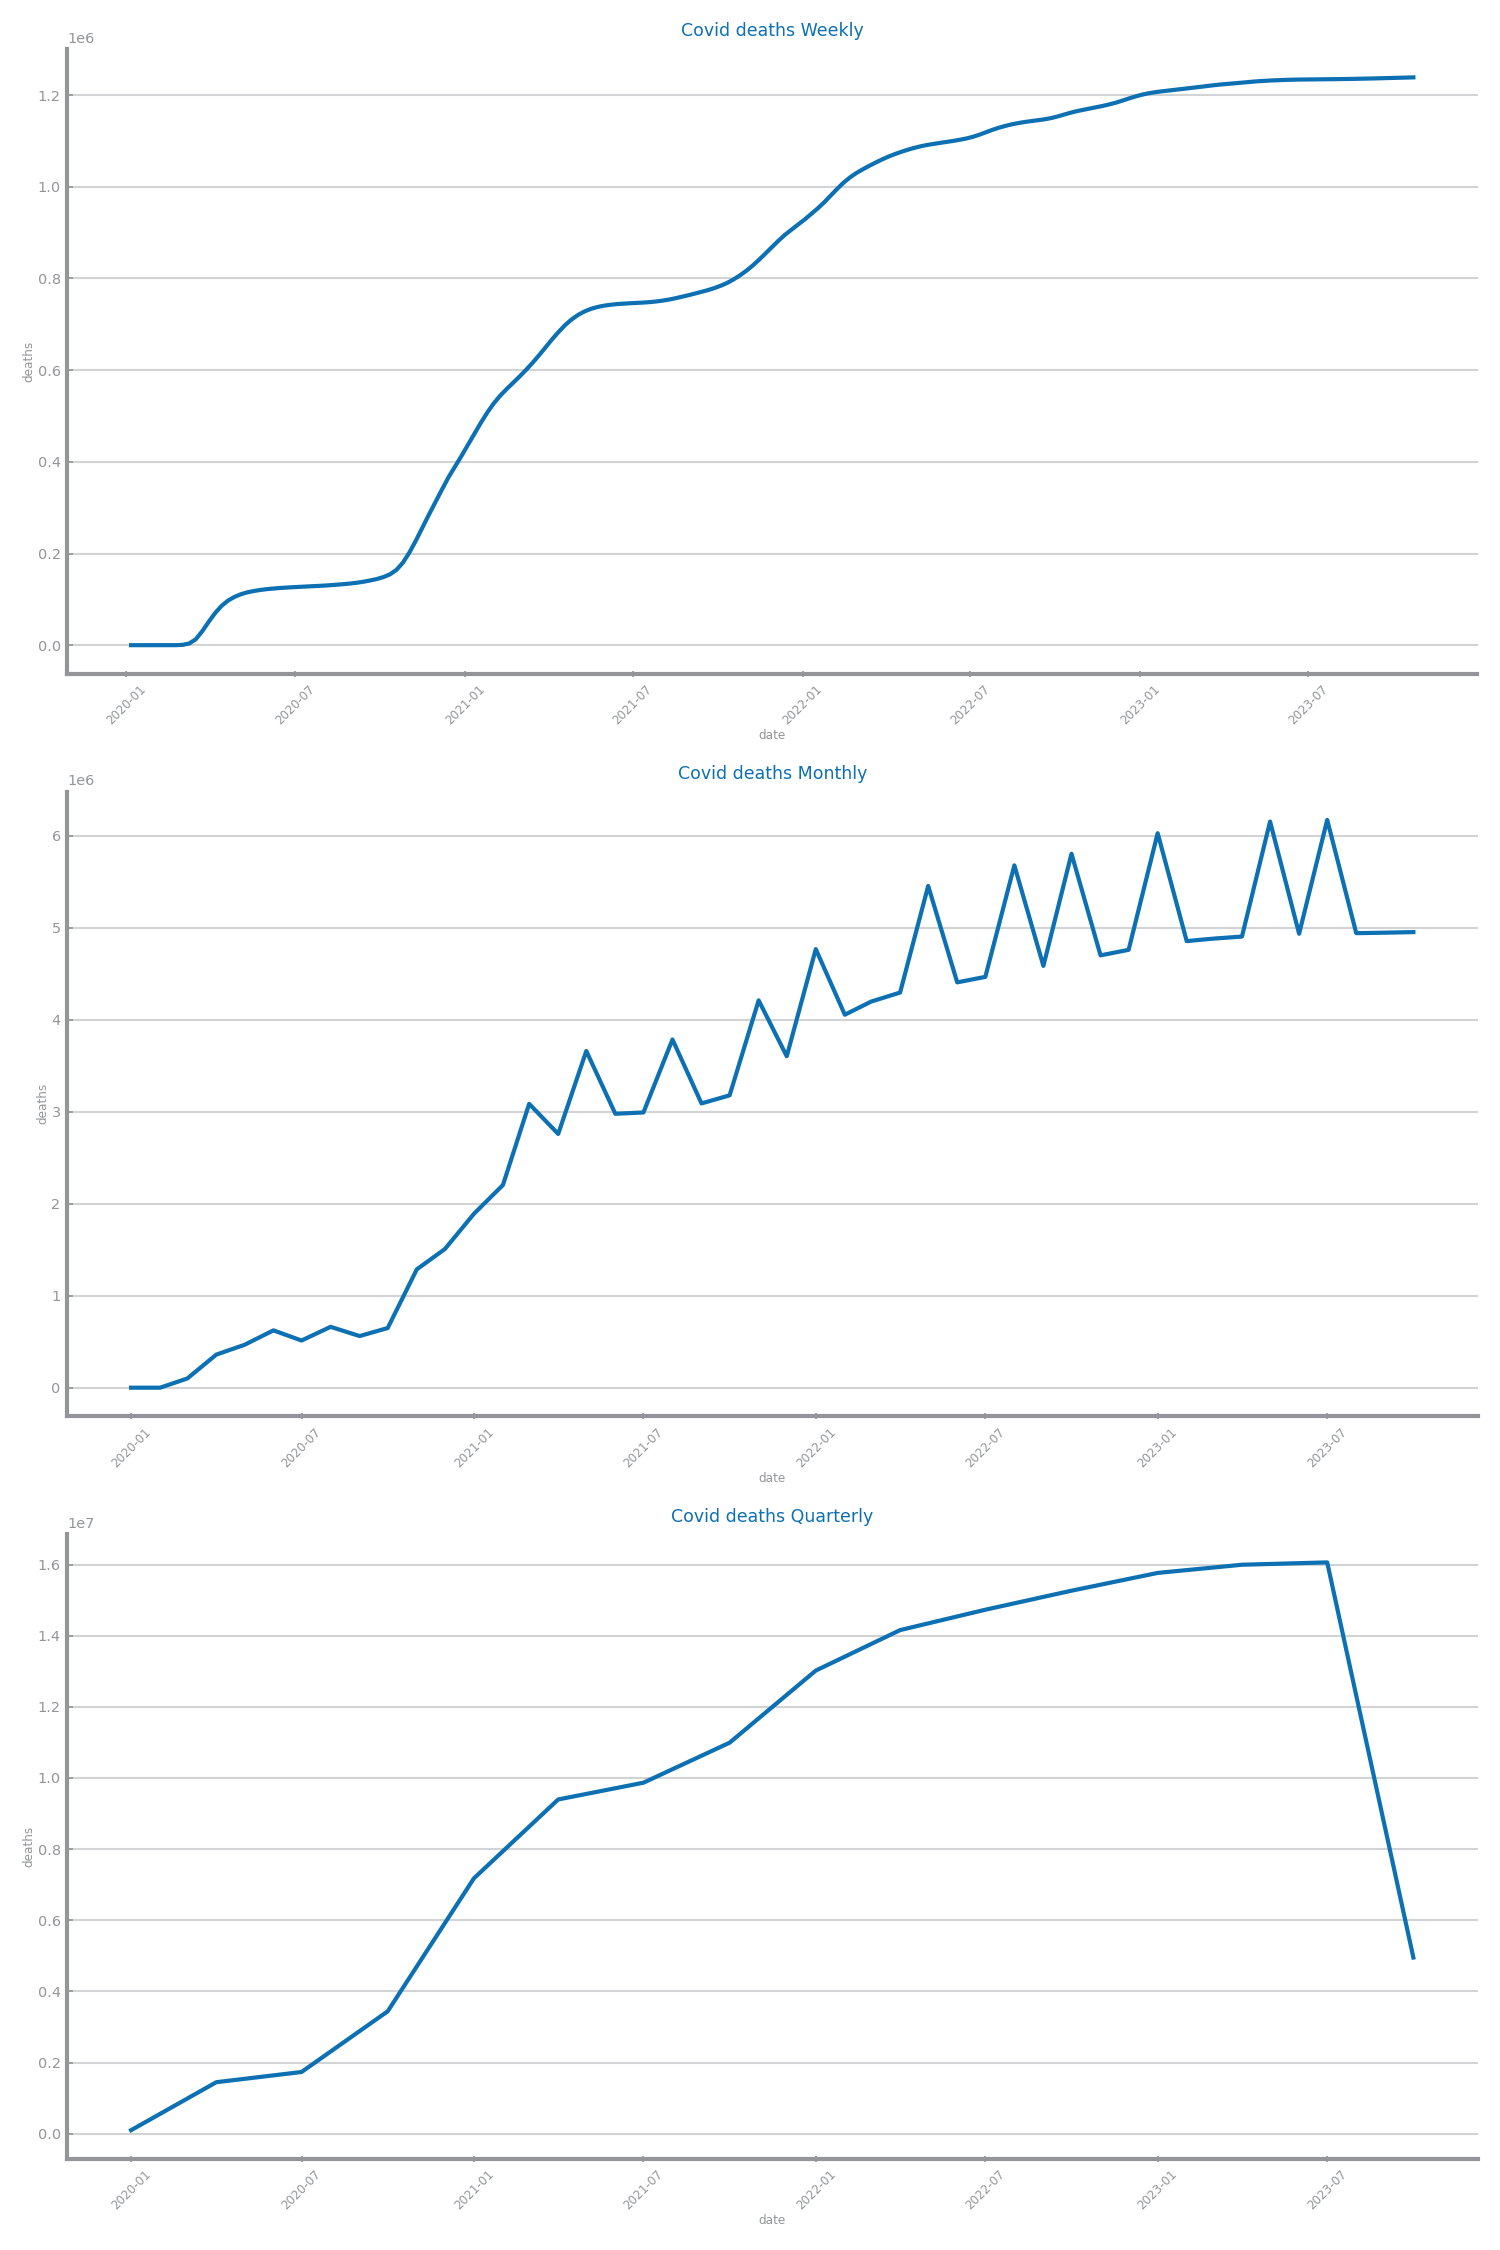
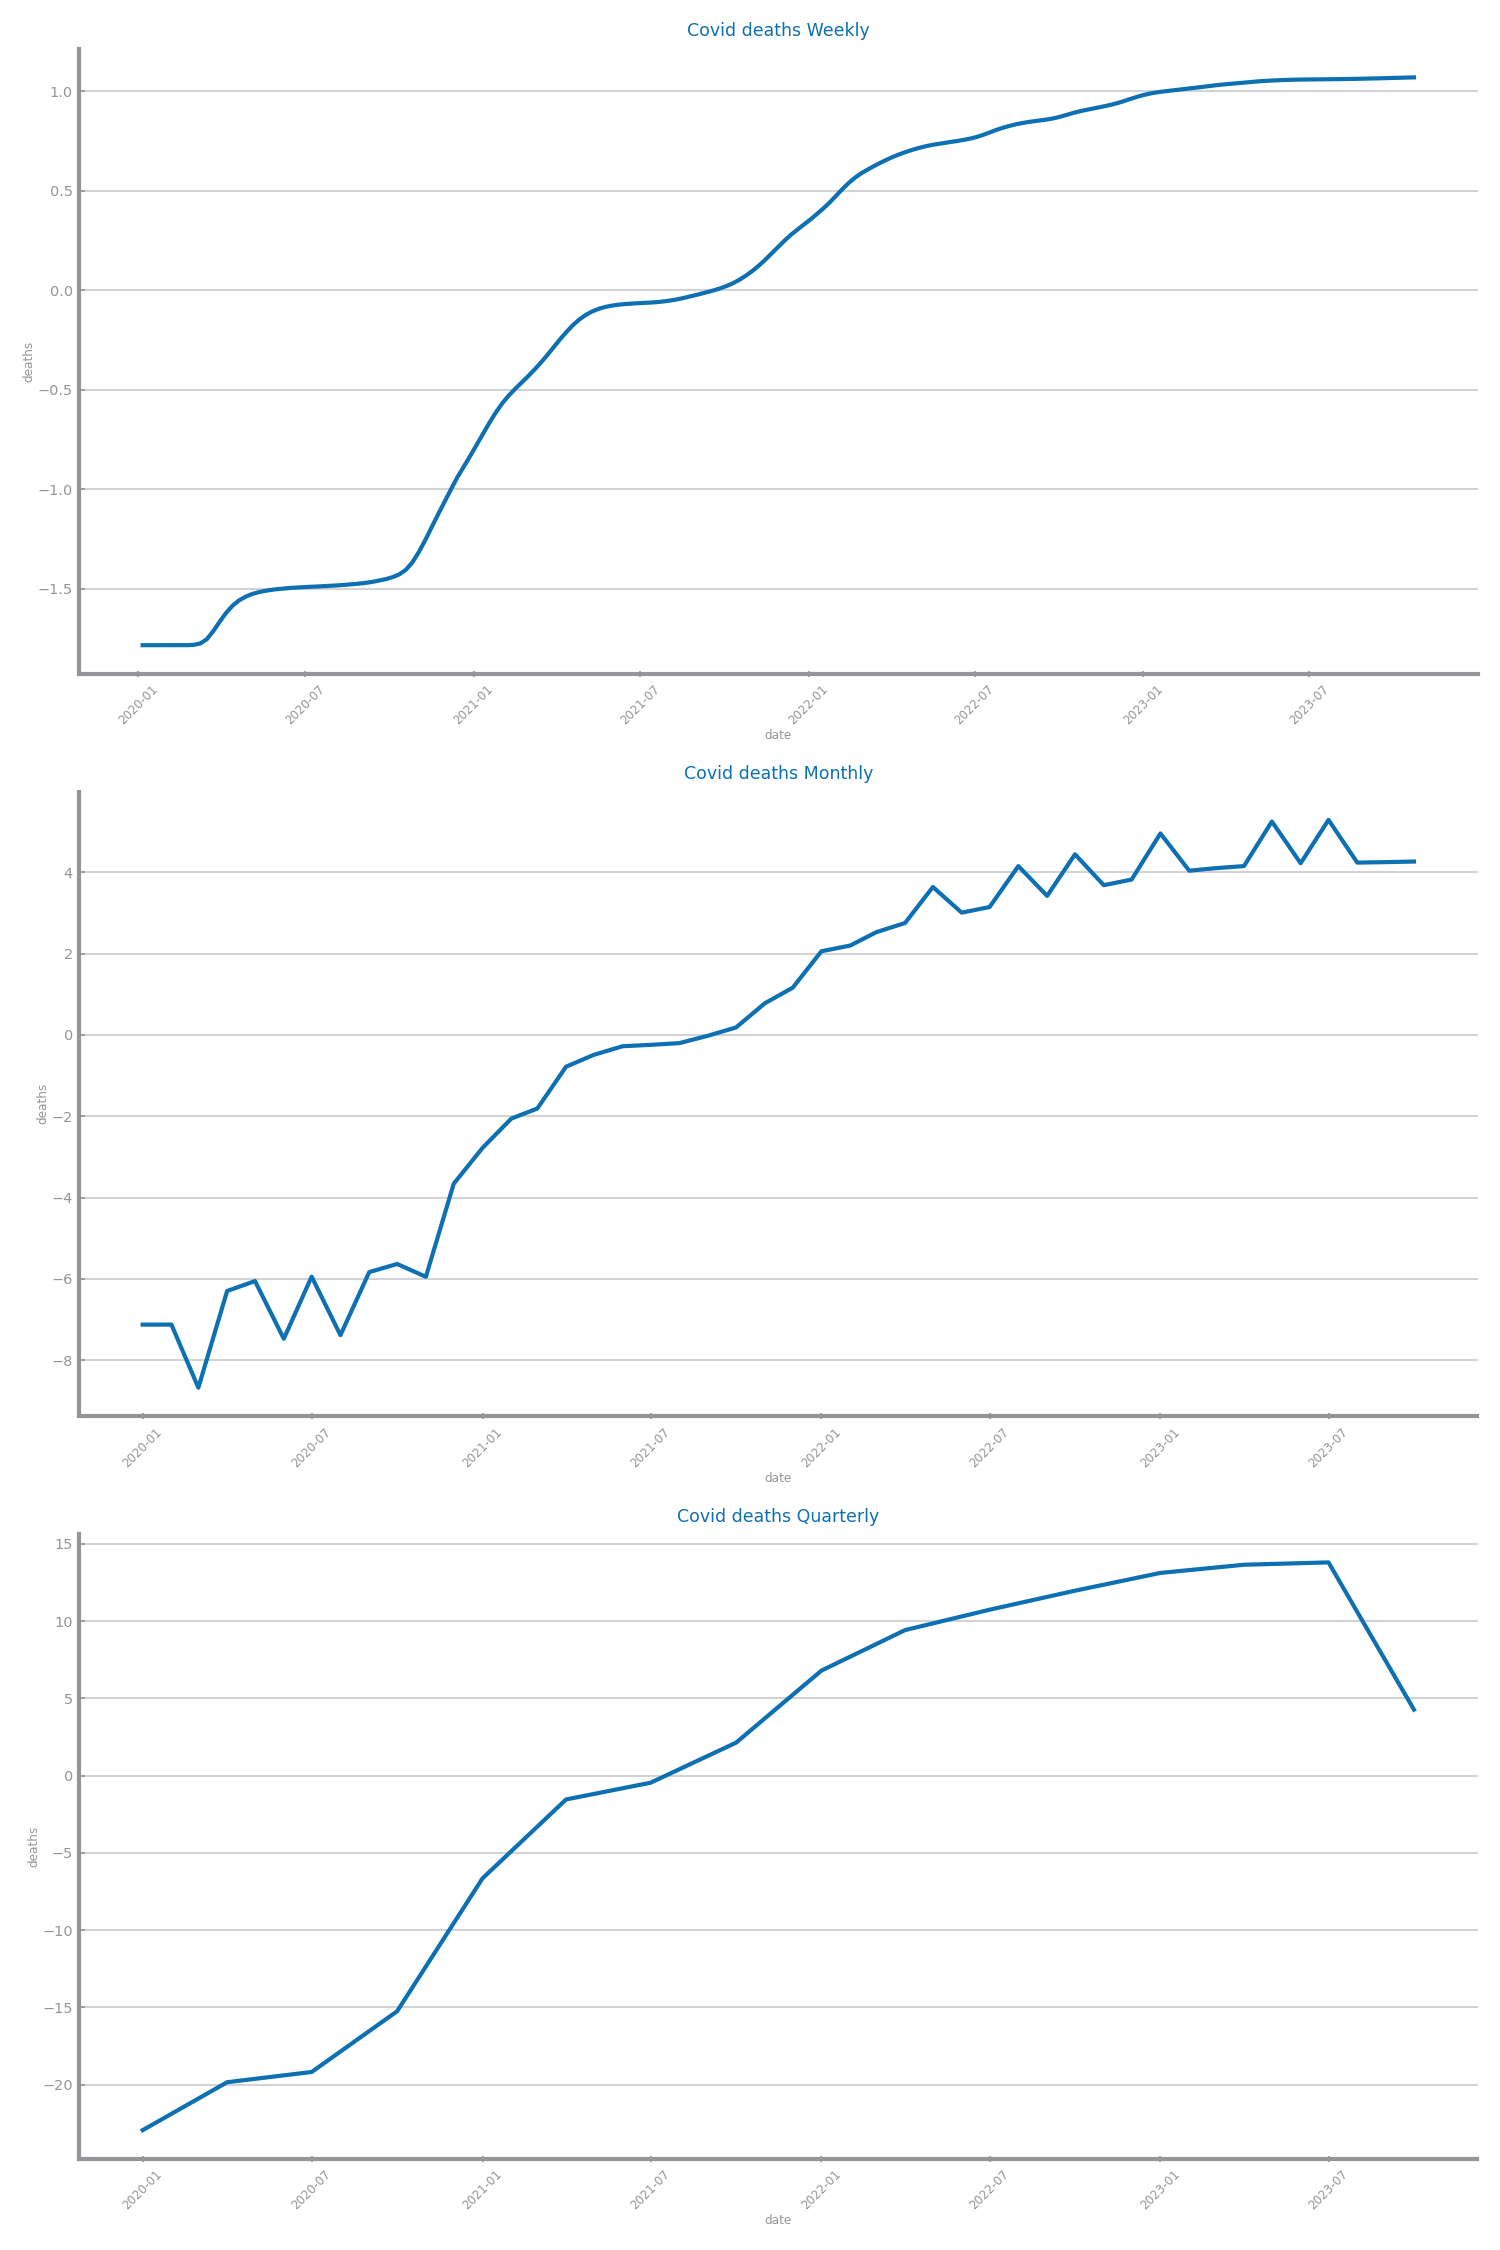
transformation done

diff --git a/dataset_1/5-time_series/code/transformation/smoothing.py b/dataset_1/5-time_series/code/transformation/smoothing.py
@@ -2,13 +2,15 @@ from matplotlib.pyplot import subplots, show, savefig, close
 from matplotlib.axes import Axes
 from matplotlib.figure import Figure
 from pandas import read_csv, DataFrame, Series
-from dslabs_functions import plot_line_chart, HEIGHT, ts_aggregation_by
+from dslabs_functions import plot_line_chart, HEIGHT, plot_forecasting_eval, series_train_test_split, plot_forecasting_series
+from sklearn.linear_model import LinearRegression
+from numpy import arange
 
 
 file_tag = "Covid"
 target = "deaths"
 data: DataFrame = read_csv(
-    "../../data/forecast_covid_single.csv",
+    "../../data/forecast_Covid_weekly.csv",
     index_col="date",
     sep=",",
     decimal=".",
@@ -18,32 +20,54 @@ data: DataFrame = read_csv(
 
 series: Series = data[target]
 
-ss_weeks: Series = ts_aggregation_by(series, gran_level="W", agg_func=sum)
-ss_months: Series = ts_aggregation_by(series, gran_level="M", agg_func=sum)
-ss_quarters: Series = ts_aggregation_by(series, gran_level="Q", agg_func=sum)
-
-grans: list[Series] = [ss_weeks, ss_months, ss_quarters]
-gran_names: list[str] = ["Weekly", "Monthly", "Quarterly"]
-
 sizes: list[int] = [25, 50, 75, 100]
 fig: Figure
 axs: list[Axes]
+fig, axs = subplots(len(sizes), 1, figsize=(3 * HEIGHT, 2*HEIGHT / 2 * len(sizes)))
+fig.suptitle(f"{file_tag} {target} after smoothing")
+
+for i in range(len(sizes)):
+    ss_smooth: Series = series.rolling(window=sizes[i]).mean()
+    ss_smooth.dropna(inplace=True)
+    ss_smooth.to_csv(f"../../data/forecast_{file_tag}_smooth_{sizes[i]}.csv")
+    plot_line_chart(
+        ss_smooth.index.to_list(),
+        ss_smooth.to_list(),
+        ax=axs[i],
+        xlabel=ss_smooth.index.name,
+        ylabel=target,
+        title=f"size={sizes[i]}",
+    )
+show()
+savefig(f"images/{file_tag}_{target}_smoothing.png")
 
 
-for i in range(len(grans)):
-    fig, axs = subplots(len(sizes), 1, figsize=(3 * HEIGHT, HEIGHT / 2 * len(sizes)))
-    fig.suptitle(f"{file_tag} {target} {gran_names[i]} after smoothing")
+filenames: list[str] = [ "../../data/forecast_Covid_smooth_25.csv", "../../data/forecast_Covid_smooth_50.csv", "../../data/forecast_Covid_smooth_75.csv", "../../data/forecast_Covid_smooth_100.csv"]
+timecol: str = "date"
 
-    for j in range(len(sizes)):
-        ss_smooth: Series = grans[i].rolling(window=sizes[j]).mean()
-        plot_line_chart(
-            ss_smooth.index.to_list(),
-            ss_smooth.to_list(),
-            ax=axs[j],
-            xlabel=ss_smooth.index.name,
-            ylabel=target,
-            title=f"size={sizes[j]}",
-        )
-    show()
-    savefig(f"images/{file_tag}_{target}_{gran_names[i]}_smoothing.png")
-    close()
+for filename, size in zip(filenames, sizes):
+    data: DataFrame = read_csv(filename, index_col=timecol, sep=",", decimal=".", parse_dates=True)
+    series: Series = data[target]
+    train, test = series_train_test_split(data, trn_pct=0.90)
+
+    trnX = arange(len(train)).reshape(-1, 1)
+    trnY = train.to_numpy()
+    tstX = arange(len(train), len(data)).reshape(-1, 1)
+    tstY = test.to_numpy()
+
+    model = LinearRegression()
+    model.fit(trnX, trnY)
+
+    prd_trn: Series = Series(model.predict(trnX), index=train.index)
+    prd_tst: Series = Series(model.predict(tstX), index=test.index)
+
+    plot_forecasting_eval(train, test, prd_trn, prd_tst, title=f"{file_tag}_Window_Size_{size} - Linear Regression")
+    
+    plot_forecasting_series(
+    train,
+    test,
+    prd_tst,
+    xlabel=timecol,
+    ylabel=target,
+    title = f"{file_tag} Window Size {size} - Linear Regression"
+    )

diff --git a/dataset_1/5-time_series/code/transformation/aggregation.py b/dataset_1/5-time_series/code/transformation/aggregation.py
@@ -1,11 +1,13 @@
 from pandas import read_csv, DataFrame, Series
 from matplotlib.pyplot import figure, show, savefig, subplots, tight_layout
-from dslabs_functions import plot_line_chart, ts_aggregation_by, HEIGHT, plot_ts_multivariate_chart
+from dslabs_functions import plot_line_chart, ts_aggregation_by, plot_forecasting_eval, series_train_test_split, plot_forecasting_series
+from sklearn.linear_model import LinearRegression
+from numpy import arange
 
 file_tag = "Covid"
 target = "deaths"
 data: DataFrame = read_csv(
-    "../../data/forecast_covid_single.csv",
+    "../../data/forecast_Covid_scaled.csv",
     index_col="date",
     sep=",",
     decimal=".",
@@ -16,8 +18,16 @@ data: DataFrame = read_csv(
 series: Series = data[target]
 
 ss_weeks: Series = ts_aggregation_by(series, gran_level="W", agg_func=sum)
+df_weeks: DataFrame = ts_aggregation_by(data, gran_level="W", agg_func=sum)
+df_weeks.to_csv(f"../../data/forecast_{file_tag}_weekly.csv")
+
 ss_months: Series = ts_aggregation_by(series, gran_level="M", agg_func=sum)
+df_months: DataFrame = ts_aggregation_by(data, gran_level="M", agg_func=sum)    
+df_months.to_csv(f"../../data/forecast_{file_tag}_monthly.csv")
+
 ss_quarters: Series = ts_aggregation_by(series, gran_level="Q", agg_func=sum)
+df_quarters: DataFrame = ts_aggregation_by(data, gran_level="Q", agg_func=sum)  
+df_quarters.to_csv(f"../../data/forecast_{file_tag}_quarterly.csv")
 
 grans: list[Series] = [ss_weeks, ss_months, ss_quarters]
 gran_names: list[str] = ["Weekly", "Monthly", "Quarterly"]
@@ -37,3 +47,38 @@ for i in range(len(grans)):
 tight_layout()  
 savefig(f"images/{file_tag}_{target}_aggregation.png")  
 show() 
+
+
+
+filename: str = "data/time_series/ashrae.csv"
+timecol: str = "date"
+
+filenames: list[str] = [ "../../data/forecast_Covid_weekly.csv", "../../data/forecast_Covid_monthly.csv", "../../data/forecast_Covid_quarterly.csv"]
+
+
+for filename, gran_name in zip(filenames, gran_names):
+    data: DataFrame = read_csv(filename, index_col=timecol, sep=",", decimal=".", parse_dates=True)
+    series: Series = data[target]
+    train, test = series_train_test_split(data, trn_pct=0.90)
+
+    trnX = arange(len(train)).reshape(-1, 1)
+    trnY = train.to_numpy()
+    tstX = arange(len(train), len(data)).reshape(-1, 1)
+    tstY = test.to_numpy()
+
+    model = LinearRegression()
+    model.fit(trnX, trnY)
+
+    prd_trn: Series = Series(model.predict(trnX), index=train.index)
+    prd_tst: Series = Series(model.predict(tstX), index=test.index)
+
+    plot_forecasting_eval(train, test, prd_trn, prd_tst, title=f"{file_tag}_{gran_name} - Linear Regression")
+    
+    plot_forecasting_series(
+    train,
+    test,
+    prd_tst,
+    xlabel=timecol,
+    ylabel=target,
+    title = f"{file_tag} {gran_name} - Linear Regression"
+    )

diff --git a/dataset_1/5-time_series/code/transformation/differentiation.py b/dataset_1/5-time_series/code/transformation/differentiation.py
@@ -1,13 +1,17 @@
 from dslabs_functions import plot_line_chart
 from pandas import read_csv, DataFrame, Series
 from matplotlib.pyplot import figure, show, savefig, subplots, tight_layout
-from dslabs_functions import plot_line_chart, ts_aggregation_by, HEIGHT, plot_ts_multivariate_chart
+from dslabs_functions import plot_line_chart, ts_aggregation_by, HEIGHT, plot_forecasting_eval, series_train_test_split, plot_forecasting_series
+from sklearn.linear_model import LinearRegression
+from numpy import arange
 
-
+filename = "../../data/forecast_Covid_smooth_100.csv"
 file_tag = "Covid"
 target = "deaths"
+timecol = "date"
+
 data: DataFrame = read_csv(
-    "../../data/forecast_covid_single.csv",
+    filename,
     index_col="date",
     sep=",",
     decimal=".",
@@ -16,28 +20,44 @@ data: DataFrame = read_csv(
 )
 
 series: Series = data[target]
+
 ss_diff: Series = series.diff()
+ss_diff.dropna(inplace=True)
+ss_diff.to_csv(f"../../data/forecast_{file_tag}_diff.csv")
 
-ss_weeks: Series = ts_aggregation_by(ss_diff, gran_level="W", agg_func=sum)
-ss_months: Series = ts_aggregation_by(ss_diff, gran_level="M", agg_func=sum)
-ss_quarters: Series = ts_aggregation_by(ss_diff, gran_level="Q", agg_func=sum)
+figure(figsize=(3 * HEIGHT, HEIGHT))
+plot_line_chart(
+    ss_diff.index.to_list(),
+    ss_diff.to_list(),
+    title="Differentiation",
+    xlabel=series.index.name,
+    ylabel=target,
+)
+show()
 
-grans: list[Series] = [ss_weeks, ss_months, ss_quarters]
-gran_names: list[str] = ["Weekly", "Monthly", "Quarterly"]
+filename = "../../data/forecast_Covid_diff.csv"
+data: DataFrame = read_csv(filename, index_col=timecol, sep=",", decimal=".", parse_dates=True)
+series: Series = data[target]
+train, test = series_train_test_split(data, trn_pct=0.90)
 
+trnX = arange(len(train)).reshape(-1, 1)
+trnY = train.to_numpy()
+tstX = arange(len(train), len(data)).reshape(-1, 1)
+tstY = test.to_numpy()
 
-fig, axs = subplots(3, 1, figsize=(10, 15))  
+model = LinearRegression()
+model.fit(trnX, trnY)
 
-for i in range(len(grans)):
-    plot_line_chart(
-        grans[i].index.to_list(),
-        grans[i].to_list(),
-        xlabel=grans[i].index.name,
-        ylabel=target,
-        title=f"{file_tag} {target} {gran_names[i]}",
-        ax=axs[i]  
-    )
+prd_trn: Series = Series(model.predict(trnX), index=train.index)
+prd_tst: Series = Series(model.predict(tstX), index=test.index)
 
-tight_layout()  
-savefig(f"images/{file_tag}_{target}_differentiation.png")  
-show() 
+plot_forecasting_eval(train, test, prd_trn, prd_tst, title=f"{file_tag}_Diff - Linear Regression")
+
+plot_forecasting_series(
+train,
+test,
+prd_tst,
+xlabel=timecol,
+ylabel=target,
+title = f"{file_tag} Diff - Linear Regression"
+)

diff --git a/dataset_1/5-time_series/code/transformation/scaling.py b/dataset_1/5-time_series/code/transformation/scaling.py
@@ -21,6 +21,7 @@ data: DataFrame = read_csv(
 series: Series = data[target]
 
 df: DataFrame = scale_all_dataframe(data)
+df.to_csv(f"../../data/forecast_{file_tag}_scaled.csv")
 ss: Series = df[target]
 
 ss_weeks: Series = ts_aggregation_by(ss, gran_level="W", agg_func=sum)
@@ -30,7 +31,7 @@ ss_quarters: Series = ts_aggregation_by(ss, gran_level="Q", agg_func=sum)
 grans: list[Series] = [ss_weeks, ss_months, ss_quarters]
 gran_names: list[str] = ["Weekly", "Monthly", "Quarterly"]
 
-fig, axs = subplots(3, 1, figsize=(10, 15))  # Create 3 subplots vertically
+fig, axs = subplots(3, 1, figsize=(10, 15))  
 
 for i in range(len(grans)):
     axs[i].plot(

diff --git a/dataset_1/5-time_series/code/transformation/dslabs_functions.py b/dataset_1/5-time_series/code/transformation/dslabs_functions.py
@@ -880,6 +880,8 @@ def plot_forecasting_series(
     ax.plot(tst.index, tst.values, label="test", color=FUTURE_COLOR)
     ax.plot(prd_tst.index, prd_tst.values, "--", label="test prediction", color=PRED_FUTURE_COLOR)
     ax.legend(prop={"size": 5})
+    
+    savefig(f"images/{title}_forecasting_series.png")
 
     return ax
 
